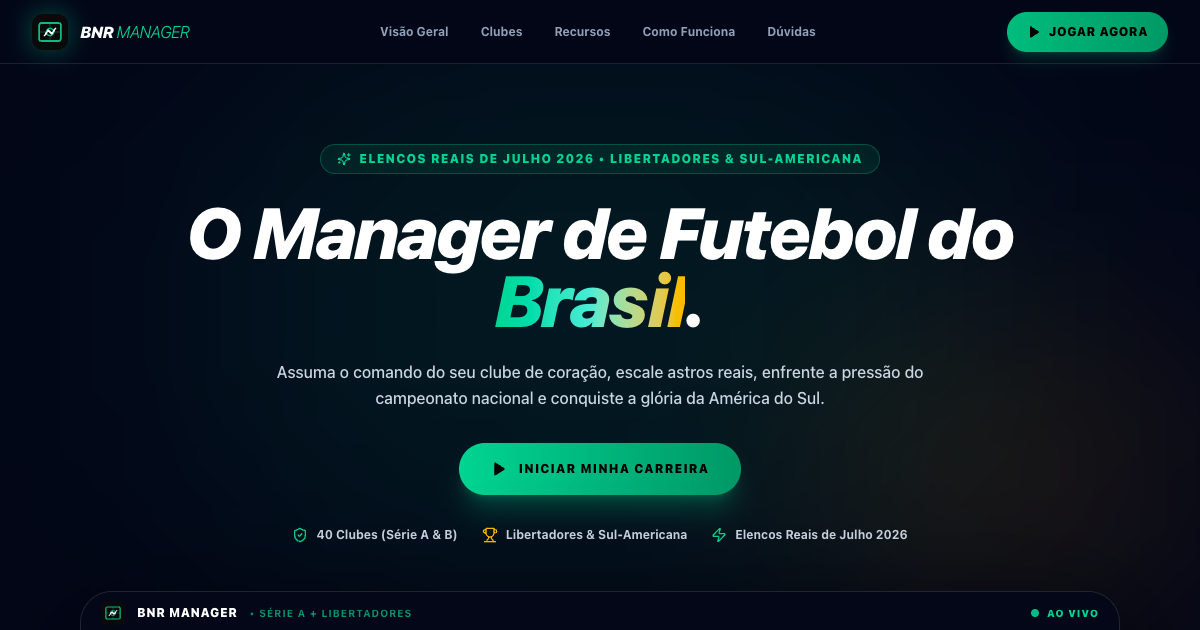
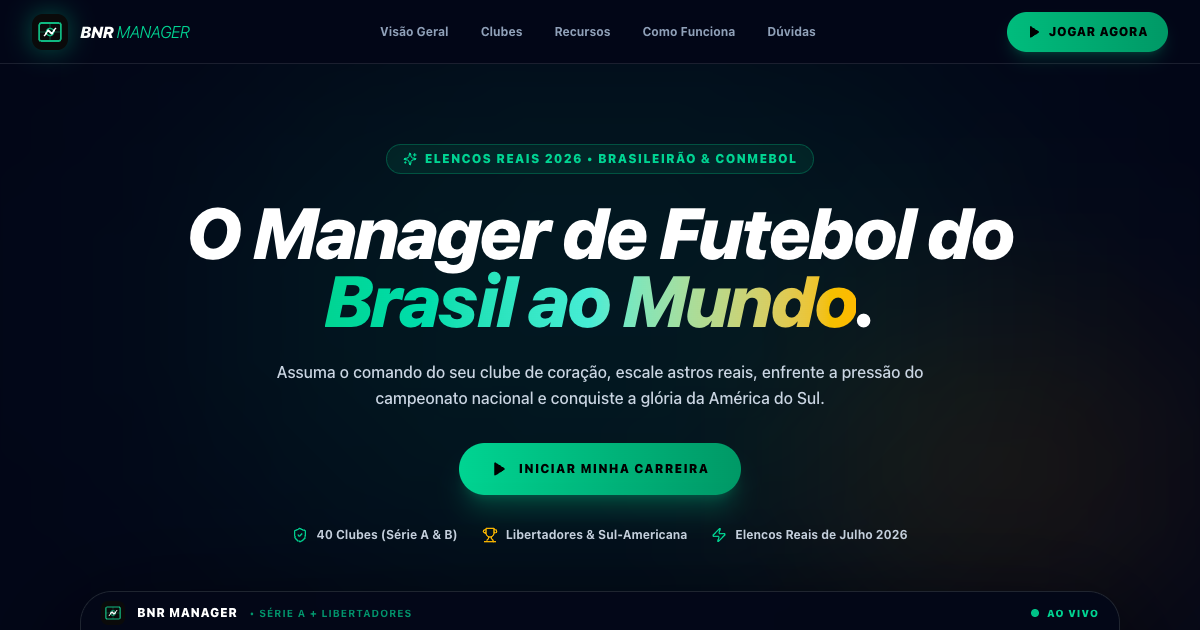
feat(branding): atualizar posicionamento global BNR Manager - O Manager de Futebol do Brasil ao Mundo

Changed region(s): [[0.2467, 0.4222, 0.74, 0.5429], [0.2775, 0.2413, 0.74, 0.2714]]

diff --git a/screens/SplashScreen.tsx b/screens/SplashScreen.tsx
@@ -155,12 +155,12 @@ export default function SplashScreen({ onStart, onContinue, hasSave }: Props) {
               {/* Badge */}
               <div className="inline-flex items-center gap-2 rounded-full border border-emerald-500/30 bg-emerald-500/10 px-4 py-1.5 text-xs font-black uppercase tracking-widest text-emerald-400 shadow-inner">
                 <Sparkles className="h-3.5 w-3.5 text-emerald-400" />
-                <span>Elencos Reais de Julho 2026 • Libertadores & Sul-Americana</span>
+                <span>Elencos Reais 2026 • Brasileirão &amp; CONMEBOL</span>
               </div>
 
               {/* Title */}
               <h1 className="mt-6 text-4xl font-black italic tracking-tight leading-[0.95] text-white sm:text-6xl lg:text-7xl">
-                O Manager de Futebol do <span className="bg-gradient-to-r from-emerald-400 via-teal-300 to-amber-400 bg-clip-text text-transparent">Brasil</span>.
+                O Manager de Futebol do <span className="bg-gradient-to-r from-emerald-400 via-teal-300 to-amber-400 bg-clip-text text-transparent">Brasil ao Mundo</span>.
               </h1>
 
               {/* Subtitle */}

diff --git a/index.html b/index.html
@@ -4,7 +4,7 @@
 <head>
   <meta charset="UTF-8" />
   <meta name="viewport" content="width=device-width, initial-scale=1.0, viewport-fit=cover" />
-  <title>Bola na Rede Manager | O Manager de Futebol Brasileiro com carreira, mercado e CONMEBOL</title>
+  <title>BNR Manager | O Manager de Futebol do Brasil ao Mundo</title>
   <meta name="description"
     content="Jogue um manager de futebol brasileiro com Série A e Série B, mercado, finanças, staff, infraestrutura, base, estatísticas, saves, Libertadores e Sul-Americana." />
   <meta name="keywords"
